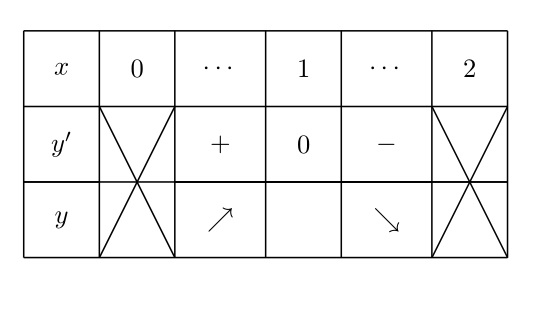
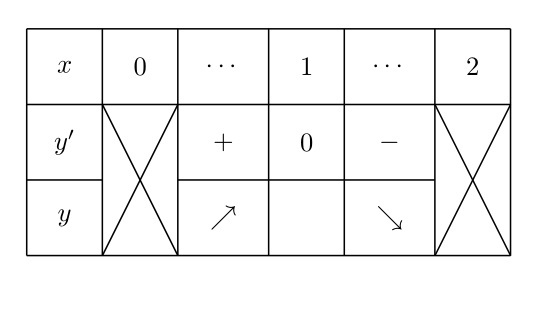
tabledata190507の図を差し替え

diff --git a/kubo-sample.html b/kubo-sample.html
@@ -1,0 +1,27 @@
+<html>
+<head>
+<title>test samples</title>
+</head>
+<body>
+<p><font size="10">&emsp;test samples</font>
+
+<!-- tabledata190507 -->
+<table border="1" height="30">
+    <tr><th colspan="2" align="left"><font size="5">&emsp;tabledata190507</font></th></tr>
+    <tr><td rowspan="20"><a href="tabledata190507/s0301table.jpg"><img src="tabledata190507/s0301table.jpg" alt=JPG width="240"></a></td></tr>
+    <tr><td align="center" width="80"><a href="tabledata190507/s0301table.cdy">cdy</a></td></tr>
+    <tr><td align="center" width="80"><a href="tabledata190507/s0301table.txt">txt</a></td></tr>
+    <tr><td align="center" width="80"></td></tr>
+</table></br>
+
+<!-- tasukigake -->
+<table border="1" height="30">
+    <tr><th colspan="2" align="left"><font size="5">&emsp;tasukigake</font></th></tr>
+    <tr><td rowspan="20"><a href="tasukigake/tasuki.jpg"><img src="tasukigake/tasuki.jpg" alt=JPG width="240"></a></td></tr>
+    <tr><td align="center" width="80"><a href="tasukigake/tasukigake.cdy">cdy</a></td></tr>
+    <tr><td align="center" width="80"><a href="tasukigake/tasukigake.txt">txt</a></td></tr>
+    <tr><td align="center" width="80"></td></tr>
+</table></br>
+
+</body>
+</html>
